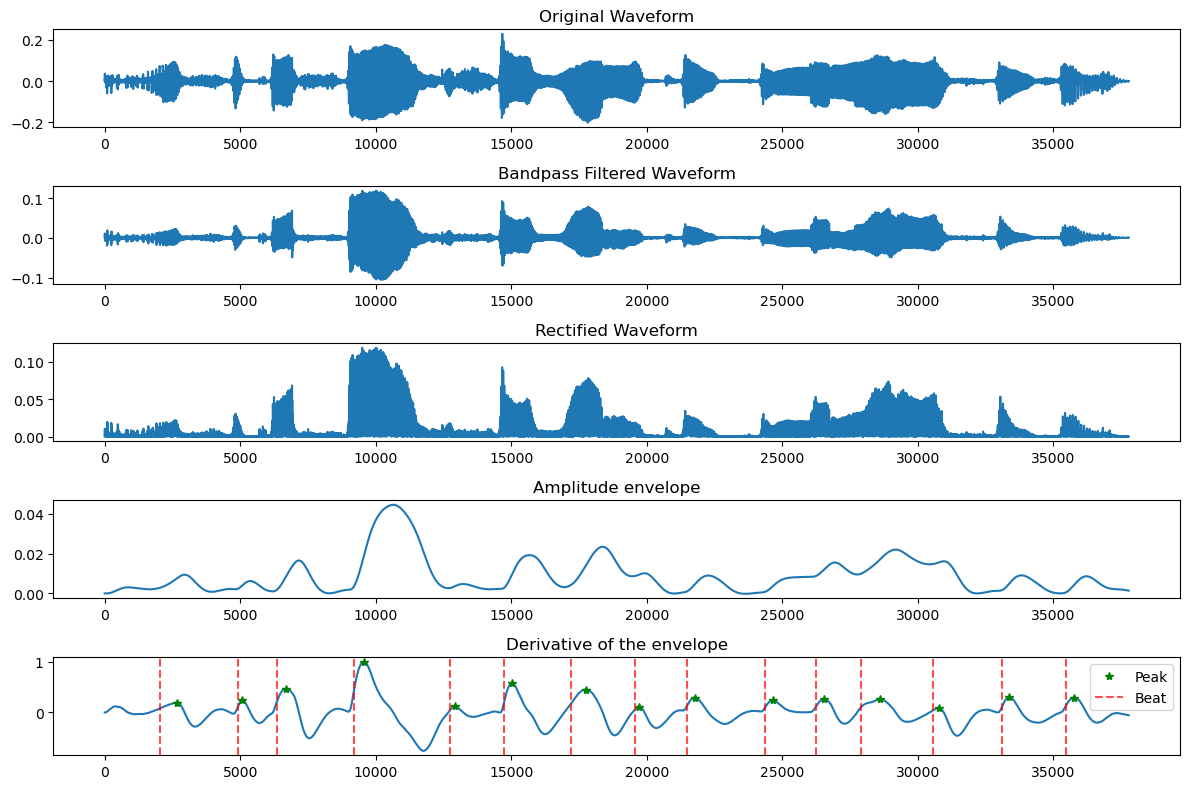
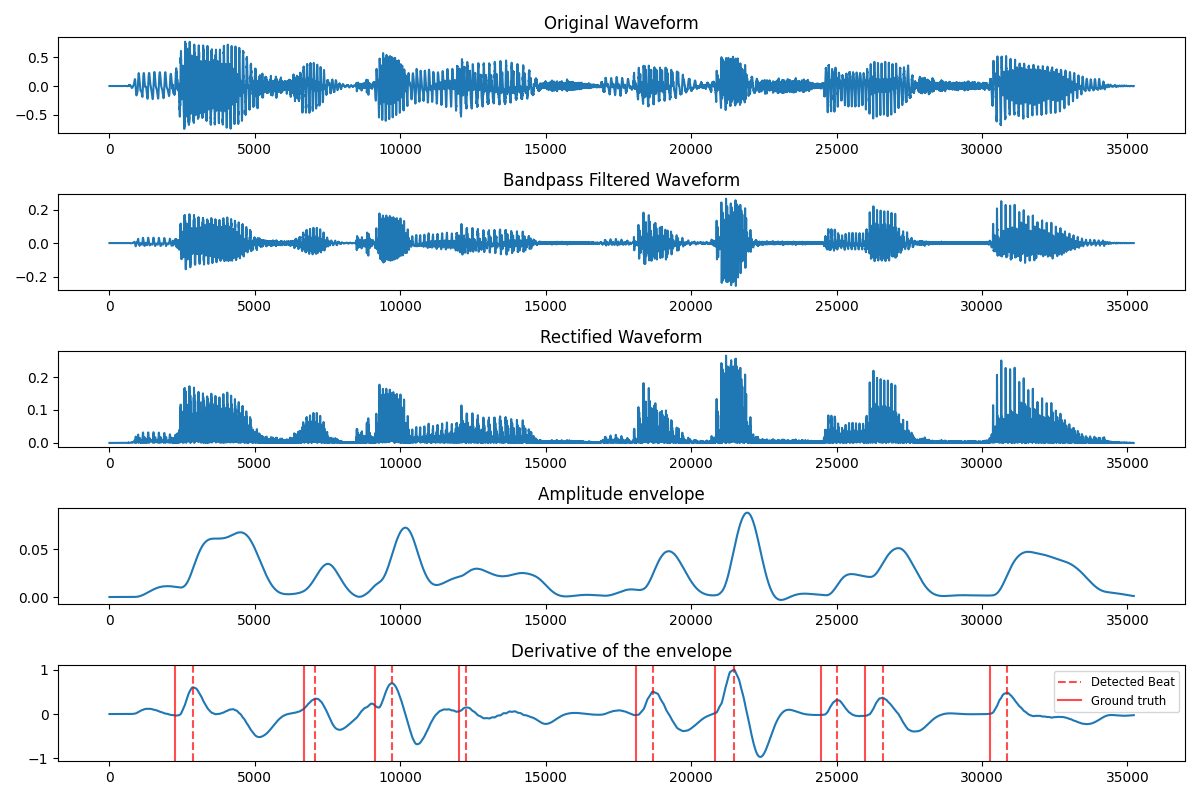
adding ground truth feature

diff --git a/src/beat_detector.py b/src/beat_detector.py
@@ -2,11 +2,12 @@ from scipy import signal
 import soundfile as sf
 import matplotlib.pyplot as plt
 import numpy as np
+import os
 from praatio import textgrid
 from sklearn.preprocessing import MaxAbsScaler
 
 class BD():
-  def __init__(self, sr, bandpass_left, bandpass_right, bandpass_order = 1, lowpass_order = 3, lowpass_cutoff = 10, min_dur = 0.03, min_peak_prominence = 0.2):
+  def __init__(self, sr, bandpass_left, bandpass_right, bandpass_order = 1, lowpass_order = 3, lowpass_cutoff = 15, min_dur = 0.03, min_peak_prominence = 0.2):
     self.bandpass_order = bandpass_order
     self.bandpass_left = bandpass_left
     self.bandpass_right = bandpass_right
@@ -53,10 +54,13 @@ class BD():
     self.rectified = self.rectify(self.filtered)
     self.envelope = signal.lfilter(*self.lowpass(), self.rectified)
     self.derivative = np.gradient(self.envelope)
+    self.second_derivative = np.gradient(self.derivative)
     scaler = MaxAbsScaler()
     self.derivative = scaler.fit_transform(self.derivative.reshape(-1, 1)).reshape(-1)
+    self.second_derivative = scaler.fit_transform(self.second_derivative.reshape(-1, 1)).reshape(-1)
 
     self.peaks, _ = signal.find_peaks(self.derivative, distance = self.sr * self.min_dur, prominence = self.min_peak_prominence)
+    self.peaks_second, _ = signal.find_peaks(self.second_derivative, distance = self.sr * self.min_dur, prominence = self.min_peak_prominence)
 
     # Note: self.beats will store the sample indices of the beats
     self.beats = []
@@ -69,13 +73,22 @@ class BD():
       else:
         continue
 
+    self.beats_second = []
+    min_ref = 0.01
+    for index in self.peaks_second:
+      peak_index = index
+      if self.second_derivative[peak_index] > min_ref:
+        self.beats_second.append(peak_index)
+
     beat_timestamps =  np.array(self.beats) / self.sr
 
     time_normalized_timestamps = beat_timestamps / self.tmax_s
 
-    return beat_timestamps, time_normalized_timestamps
+    beat_timestamps_second = np.array(self.beats) / self.sr
 
-  def plot_filtered(self, out_file):
+    return beat_timestamps, time_normalized_timestamps, beat_timestamps_second
+
+  def plot_filtered(self, out_file, ground_truth = None):
     '''
     Plotting resources. Must be called after detect_beats().
     Shows the original and bandpass filtered waveforms, the amplitude envelope, its derivative
@@ -101,13 +114,33 @@ class BD():
 
     plt.subplot(5,1,5)
     plt.plot(self.derivative)
-    plt.plot(self.peaks, self.derivative[self.peaks], "*", color = 'green', label = 'Peak')
     for beat in self.beats:
-      plt.axvline(beat, color='red', linestyle='--', alpha=0.7, label="Beat" if beat == self.beats[0] else "")
-    plt.legend()
-    plt.title("Derivative of the envelope")
-    plt.tight_layout()
-    plt.savefig(out_file)
+      plt.axvline(beat, color='red', linestyle='--', alpha=0.7, label="Detected Beat" if beat == self.beats[0] else "")
+
+    if ground_truth is not None:
+      tg = textgrid.openTextgrid(ground_truth, includeEmptyIntervals=True)
+      gt_tier = tg.getTier('beats')
+      gt_timestamps = [entry.time * self.sr for entry in gt_tier.entries]
+      for i, beat in enumerate(gt_timestamps):
+        label = "Ground truth" if i == 0 else ""
+        plt.axvline(beat, color='red', linestyle='-', alpha=0.7, label = label)
+      plt.legend(fontsize='small')
+      plt.title("Derivative of the envelope")
+      plt.tight_layout()
+      plt.savefig(out_file)
+    else:
+      plt.legend()
+      plt.title("Derivative of the envelope")
+      plt.tight_layout()
+      plt.savefig(out_file)
+
+    # plt.subplot(6,1,6)
+    # plt.plot(self.second_derivative)
+    # plt.plot(self.peaks_second, self.second_derivative[self.peaks_second], "*", color = 'purple', label = 'Peak_2nd derivative')
+    # for beat in self.beats_second:
+    #   plt.axvline(beat, color='red', linestyle='-', alpha=0.7, label="Beat_2nd derivative" if beat == self.beats_second[0] else "")
+    # plt.legend()
+    # plt.title("Second derivative of the envelope")
 
     ## Bandpass frequency response
     # plt.figure(figsize=(6, 4))

diff --git a/src/main.py b/src/main.py
@@ -1,5 +1,6 @@
 import librosa
 import os
+from pathlib import Path
 import argparse
 import numpy as np
 from tqdm import tqdm
@@ -7,7 +8,7 @@ from beat_detector import BD
 
 parser = argparse.ArgumentParser()
 
-parser.add_argument('-in', '--audio_dir', type=str, required=True, help='directory with audio files')
+parser.add_argument('-in', '--input_dir', type=str, required=True, help='directory with audio files')
 parser.add_argument('-out', '--output_dir', type=str, required=True, help='directory to save output')
 parser.add_argument('-sr', '--sampling_rate', type=int, required=True, help='audio sampling rate, automatic resampling is performed if specified sr is different from native')
 parser.add_argument('-l', '--bandpass_left', type=int, default=800, help='bandpass filters left cutoff')
@@ -25,7 +26,9 @@ normTimestamps_data = {}
 
 # Script will only read .wav files in the specified directory, ignoring subdirectories
 
-file_list = [f"{args.audio_dir}/{f}" for f in os.listdir(args.audio_dir) if os.path.isfile(f"{args.audio_dir}/{f}") and f.split('.')[-1] == 'wav']
+file_list = [f"{args.input_dir}/audio/{f}" for f in os.listdir(f'{args.input_dir}/audio') if os.path.isfile(f"{args.input_dir}/audio/{f}") and f.split('.')[-1] == 'wav']
+assert len(file_list) == len(os.listdir(f'{args.input_dir}/audio')), f"audio directory must only contain wav files"
+gt_base_path = os.path.join(args.input_dir, 'textgrids_gt')
 
 for i, file_path in enumerate(tqdm(file_list, desc="Processing audios")):
   waveform, sr = librosa.load(file_path, sr = args.sampling_rate)
@@ -51,10 +54,14 @@ for i, file_path in enumerate(tqdm(file_list, desc="Processing audios")):
     bd.write_wav(out_file)
 
   if args.save_plots:
+    gt_path = os.path.join(gt_base_path, Path(identifier).stem + '.TextGrid')
     plots_path = os.path.join(args.output_dir, 'plots')
     os.makedirs(plots_path, exist_ok=True)
-    out_file = os.path.join(plots_path, identifier[:-4] + ".png")
-    bd.plot_filtered(out_file)
+    out_file = os.path.join(plots_path, Path(identifier).stem + '.png')
+    if os.path.isfile(gt_path):
+      bd.plot_filtered(out_file, gt_path)
+    else:
+      bd.plot_filtered(out_file)
 
 os.makedirs(args.output_dir, exist_ok=True)
 np.savez(os.path.join(args.output_dir, "beat_timestamps.npz"), **timestamps_data)

diff --git a/README.md b/README.md
@@ -20,13 +20,18 @@ The `beat_detector` module provides the `BD` class. Objects created by instantia
 
     All audio files must be contained inside the same folder:
     ```
-    data/
-    ├──audio1.wav
-    ├──audio2.wav
-    ├──audio3.wav
+    input_dir/
+            audio/
+                ├──audio1.wav
+                ├──audio2.wav
+                ├──audio3.wav
+            textgrids_gt/ (optional)
+                ├──audio1.TextGrid
     ```
 
-    Each audio filename must be unique
+    Each audio filename must be unique.
+    
+    Optionally, manually segmented textgrids can be included under `textgrids_gt`. If present, the provided annotations will be plotted alongside automatically detected ones when `-plt` is used. The ground truth textgrid must contain a point tier named `beats` and the filename must match the wav's.
     
 3. **Run main script**
 
